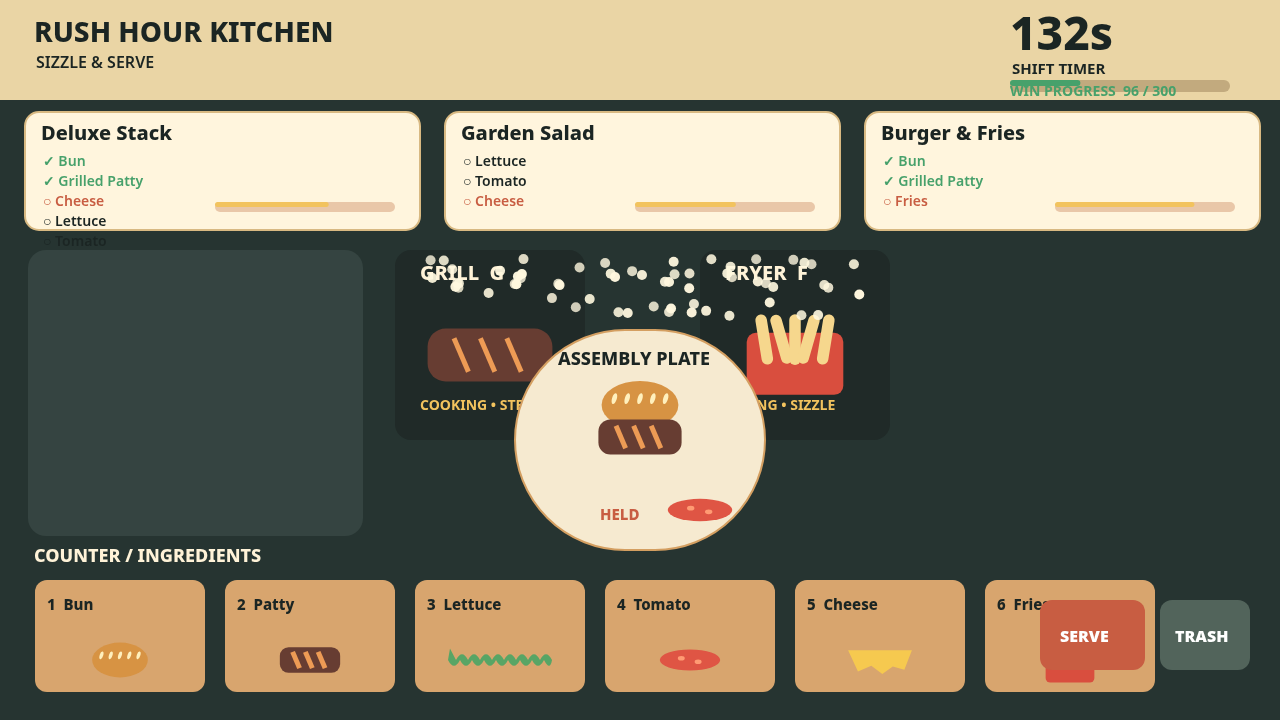
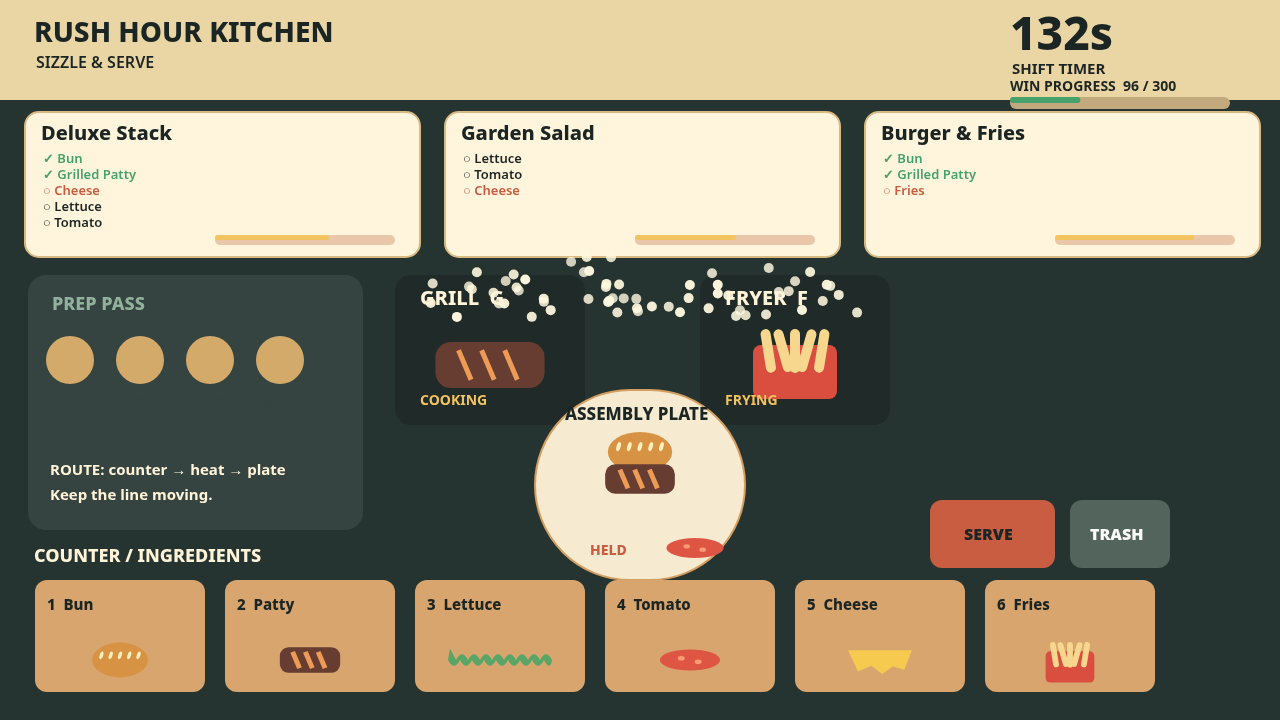
Fix cooking game screenshot layout

diff --git a/game/src/render.js b/game/src/render.js
@@ -1,9 +1,10 @@
-import {W,H,COLORS,INGREDIENTS,BIN_COLORS,RECIPES,WIN} from './config.js';
+import {W,H,COLORS,INGREDIENTS,WIN} from './config.js';
+const LAYOUT_REVISION=2;
 const rr=(c,x,y,w,h,r,fill,stroke)=>{c.beginPath();c.roundRect(x,y,w,h,r);c.fillStyle=fill;c.fill();if(stroke){c.strokeStyle=stroke;c.lineWidth=2;c.stroke()}};
-function food(c,type,x,y,s=1){c.save();c.translate(x,y);if(type==='Bun'){c.fillStyle='#d79343';c.beginPath();c.ellipse(0,0,48*s,30*s,0,0,Math.PI*2);c.fill();c.fillStyle='#fff0bd';for(let i=-2;i<3;i++){c.beginPath();c.ellipse(i*16*s,-8*s,3*s,7*s,.3,0,7);c.fill()}}else if(type==='Patty'||type==='Grilled Patty'){c.fillStyle='#673d32';rr(c,-52*s,-22*s,104*s,44*s,15*s,c.fillStyle);c.strokeStyle='#ed9b55';c.lineWidth=5;for(let i=-30;i<31;i+=22){c.beginPath();c.moveTo(i*s,-14*s);c.lineTo((i+12)*s,14*s);c.stroke()}}else if(type==='Lettuce'){c.fillStyle='#58a565';c.beginPath();for(let i=-50;i<=50;i+=12)c.quadraticCurveTo(i,-20*s,i+6,0);for(let i=50;i>=-50;i-=12)c.quadraticCurveTo(i,20*s,i-6,0);c.fill()}else if(type==='Tomato'){c.fillStyle='#df5544';c.beginPath();c.ellipse(0,0,52*s,18*s,0,0,7);c.fill();c.fillStyle='#ff9b73';c.beginPath();c.ellipse(-15*s,-3*s,6*s,4*s,0,0,7);c.ellipse(14*s,3*s,6*s,4*s,0,0,7);c.fill()}else if(type==='Cheese'){c.fillStyle='#f6c94f';c.beginPath();c.moveTo(-55*s,-17*s);c.lineTo(55*s,-17*s);c.lineTo(42*s,17*s);c.lineTo(22*s,11*s);c.lineTo(4*s,24*s);c.lineTo(-15*s,10*s);c.lineTo(-38*s,20*s);c.closePath();c.fill()}else{c.fillStyle='#d94e3e';rr(c,-42*s,-15*s,84*s,54*s,8*s,c.fillStyle);c.fillStyle='#f6d78d';for(let i=-28;i<34;i+=14){c.save();c.translate(i*s,-17*s);c.rotate((i%20)*.02);rr(c,-5*s,-14*s,10*s,44*s,5*s,c.fillStyle);c.restore()}}c.restore()}
-export function draw(c,w,shot){c.clearRect(0,0,W,H);c.fillStyle='#263431';c.fillRect(0,0,W,H);c.fillStyle='#ead5a5';c.fillRect(0,0,W,100);c.fillStyle=COLORS.ink;c.font='800 28px system-ui';c.fillText('RUSH HOUR KITCHEN',34,42);c.font='600 16px system-ui';c.fillText('SIZZLE & SERVE',36,68);c.fillStyle=COLORS.ink;c.font='800 46px system-ui';c.fillText(`${Math.ceil(w.time)}s`,1010,50);c.font='700 15px system-ui';c.fillText('SHIFT TIMER',1012,74);rr(c,1010,80,220,12,6,'#c2aa7e');rr(c,1010,80,220*Math.min(1,w.score/WIN),6,3,COLORS.green);c.font='700 14px system-ui';c.fillText(`WIN PROGRESS  ${w.score} / ${WIN}`,1010,96);
- for(let i=0;i<3;i++){const o=w.orders[i];const x=25+i*420;rr(c,x,112,395,118,14,'#fff5dd',o?.patience<8?COLORS.red:'#d8b982');c.fillStyle=COLORS.ink;c.font='800 20px system-ui';c.fillText(o?.name||'New order',x+16,140);c.font='600 14px system-ui';(o?.need||[]).forEach((n,j)=>{c.fillStyle=j<w.plate.length&&w.plate[j]===n?COLORS.green:j===w.plate.length?COLORS.terracotta:COLORS.ink;c.fillText(`${j<w.plate.length&&w.plate[j]===n?'✓':'○'} ${n}`,x+18,166+j*20)});rr(c,x+190,202,180,10,5,'#e9c7a8');rr(c,x+190,202,180*Math.max(0,(o?.patience||0)/28),5,3,o?.patience<8?COLORS.red:COLORS.gold);if(o?.patience<8){c.fillStyle=COLORS.red;c.font='900 13px system-ui';c.fillText('URGENT',x+300,140)}}
- rr(c,28,250,335,286,18,'#354441');rr(c,395,250,190,190,16,'#202a28');rr(c,700,250,190,190,16,'#202a28');c.fillStyle=COLORS.cream;c.font='800 20px system-ui';c.fillText('GRILL  G',420,280);c.fillText('FRYER  F',725,280);food(c,w.grill.item||'Patty',490,355,1.2);food(c,w.fryer.item||'Fries',795,350,1.15);c.fillStyle=COLORS.gold;c.font='700 14px system-ui';c.fillText(w.grill.busy?'COOKING • STEAM':'READY',420,410);c.fillText(w.fryer.busy?'FRYING • SIZZLE':'READY',725,410);for(const p of w.particles){c.globalAlpha=p.a;c.fillStyle='#fff8df';c.beginPath();c.arc(p.x,p.y,5,0,7);c.fill()}c.globalAlpha=1;
- rr(c,515,330,250,220,125,'#f6ead0','#d49f61');c.fillStyle=COLORS.ink;c.font='800 18px system-ui';c.fillText('ASSEMBLY PLATE',558,365);w.plate.forEach((n,i)=>food(c,n,640,405+i*32,0.8));if(w.hand){c.fillStyle=COLORS.terracotta;c.font='800 15px system-ui';c.fillText('HELD',600,520);food(c,w.hand,700,510,.62)}
- c.fillStyle=COLORS.cream;c.font='800 18px system-ui';c.fillText('COUNTER / INGREDIENTS',34,562);INGREDIENTS.forEach((n,i)=>{const x=35+i*190;rr(c,x,580,170,112,12,'#d8a56e');c.fillStyle=COLORS.ink;c.font='800 15px system-ui';c.fillText(`${i+1}  ${n}`,x+12,610);food(c,n,x+85,660,.58)});rr(c,1040,600,105,70,12,COLORS.terracotta);c.fillStyle='white';c.font='900 16px system-ui';c.fillText('SERVE',1060,642);rr(c,1160,600,90,70,12,'#52645b');c.fillStyle='white';c.fillText('TRASH',1175,642);if(w.combo>1){rr(c,920,260,170,58,14,COLORS.gold);c.fillStyle=COLORS.ink;c.font='900 27px system-ui';c.fillText(`COMBO x${w.combo}`,940,298)}w.pop.forEach(p=>{c.globalAlpha=p.a;c.fillStyle=COLORS.gold;c.font='900 28px system-ui';c.fillText(p.text,p.x,p.y)});c.globalAlpha=1;if(w.mode!=='play'){c.fillStyle='rgba(20,26,24,.76)';c.fillRect(220,185,840,350);rr(c,300,230,680,250,24,'#fff1ce');c.fillStyle=COLORS.ink;c.font='900 54px system-ui';c.fillText(w.mode==='win'?'SERVICE COMPLETE':'SHIFT OVER',420,310);c.font='700 24px system-ui';c.fillText(`Score ${w.score}   Served ${w.served}   Best combo x${w.bestCombo}`,390,365);c.font='600 18px system-ui';c.fillText('Press R to start a fresh shift',500,420)} }
-const REVISION=2;
+function food(c,type,x,y,s=1){c.save();c.translate(x,y);if(type==='Bun'){c.fillStyle='#d79343';c.beginPath();c.ellipse(0,0,48*s,30*s,0,0,7);c.fill();c.fillStyle='#fff0bd';for(let i=-2;i<3;i++){c.beginPath();c.ellipse(i*16*s,-8*s,3*s,7*s,.3,0,7);c.fill()}}else if(type==='Patty'||type==='Grilled Patty'){c.fillStyle='#673d32';rr(c,-52*s,-22*s,104*s,44*s,15*s,c.fillStyle);c.strokeStyle='#ed9b55';c.lineWidth=5;for(let i=-30;i<31;i+=22){c.beginPath();c.moveTo(i*s,-14*s);c.lineTo((i+12)*s,14*s);c.stroke()}}else if(type==='Lettuce'){c.fillStyle='#58a565';c.beginPath();for(let i=-50;i<=50;i+=12)c.quadraticCurveTo(i,-20*s,i+6,0);for(let i=50;i>=-50;i-=12)c.quadraticCurveTo(i,20*s,i-6,0);c.fill()}else if(type==='Tomato'){c.fillStyle='#df5544';c.beginPath();c.ellipse(0,0,52*s,18*s,0,0,7);c.fill();c.fillStyle='#ff9b73';c.beginPath();c.ellipse(-15*s,-3*s,6*s,4*s,0,0,7);c.ellipse(14*s,3*s,6*s,4*s,0,0,7);c.fill()}else if(type==='Cheese'){c.fillStyle='#f6c94f';c.beginPath();c.moveTo(-55*s,-17*s);c.lineTo(55*s,-17*s);c.lineTo(42*s,17*s);c.lineTo(22*s,11*s);c.lineTo(4*s,24*s);c.lineTo(-15*s,10*s);c.lineTo(-38*s,20*s);c.closePath();c.fill()}else{c.fillStyle='#d94e3e';rr(c,-42*s,-15*s,84*s,54*s,8*s,c.fillStyle);c.fillStyle='#f6d78d';for(let i=-28;i<34;i+=14){c.save();c.translate(i*s,-17*s);c.rotate((i%20)*.02);rr(c,-5*s,-14*s,10*s,44*s,5*s,c.fillStyle);c.restore()}}c.restore()}
+export function draw(c,w,shot){c.clearRect(0,0,W,H);c.fillStyle='#263431';c.fillRect(0,0,W,H);c.fillStyle='#ead5a5';c.fillRect(0,0,W,100);c.fillStyle=COLORS.ink;c.font='800 28px system-ui';c.fillText('RUSH HOUR KITCHEN',34,42);c.font='600 16px system-ui';c.fillText('SIZZLE & SERVE',36,68);c.font='800 46px system-ui';c.fillText(`${Math.ceil(w.time)}s`,1010,50);c.font='700 15px system-ui';c.fillText('SHIFT TIMER',1012,74);c.font='700 14px system-ui';c.fillText(`WIN PROGRESS  ${w.score} / ${WIN}`,1010,91);rr(c,1010,97,220,12,6,'#c2aa7e');rr(c,1010,97,220*Math.min(1,w.score/WIN),6,3,COLORS.green);
+ for(let i=0;i<3;i++){const o=w.orders[i],x=25+i*420;rr(c,x,112,395,145,14,'#fff5dd',o?.patience<8?COLORS.red:'#d8b982');c.fillStyle=COLORS.ink;c.font='800 20px system-ui';c.fillText(o?.name||'New order',x+16,140);c.font='600 13px system-ui';(o?.need||[]).forEach((n,j)=>{c.fillStyle=j<w.plate.length&&w.plate[j]===n?COLORS.green:j===w.plate.length?COLORS.terracotta:COLORS.ink;c.fillText(`${j<w.plate.length&&w.plate[j]===n?'✓':'○'} ${n}`,x+18,163+j*16)});rr(c,x+190,235,180,10,5,'#e9c7a8');rr(c,x+190,235,180*Math.max(0,(o?.patience||0)/28),5,3,o?.patience<8?COLORS.red:COLORS.gold);if(o?.patience<8){c.fillStyle=COLORS.red;c.font='900 13px system-ui';c.fillText('URGENT',x+300,140)}}
+ rr(c,28,275,335,255,18,'#354441');c.fillStyle='#91b19c';c.font='800 18px system-ui';c.fillText('PREP PASS',52,310);for(let i=0;i<4;i++){c.fillStyle='#d4aa6a';c.beginPath();c.arc(70+i*70,360,24,0,7);c.fill();c.fillStyle='#354441';c.font='700 13px system-ui';c.fillText(['wash','slice','stack','plate'][i],49+i*70,405)}c.fillStyle=COLORS.cream;c.font='700 15px system-ui';c.fillText('ROUTE: counter → heat → plate',50,475);c.fillText('Keep the line moving.',50,500);
+ rr(c,395,275,190,150,16,'#202a28');rr(c,700,275,190,150,16,'#202a28');for(const p of w.particles){c.globalAlpha=p.a;c.fillStyle='#fff8df';c.beginPath();c.arc(p.x,Math.min(345,p.y),5,0,7);c.fill()}c.globalAlpha=1;c.fillStyle=COLORS.cream;c.font='800 20px system-ui';c.fillText('GRILL  G',420,305);c.fillText('FRYER  F',725,305);food(c,w.grill.item||'Patty',490,365,1.05);food(c,w.fryer.item||'Fries',795,360,1.0);c.fillStyle=COLORS.gold;c.font='700 14px system-ui';c.fillText(w.grill.busy?'COOKING':'READY',420,405);c.fillText(w.fryer.busy?'FRYING':'READY',725,405);
+ rr(c,535,390,210,190,105,'#f6ead0','#d49f61');c.fillStyle=COLORS.ink;c.font='800 17px system-ui';c.fillText('ASSEMBLY PLATE',565,420);w.plate.forEach((n,i)=>food(c,n,640,452+i*27,.67));if(w.hand){c.fillStyle=COLORS.terracotta;c.font='800 14px system-ui';c.fillText('HELD',590,555);food(c,w.hand,695,548,.55)}
+ c.fillStyle=COLORS.cream;c.font='800 18px system-ui';c.fillText('COUNTER / INGREDIENTS',34,562);INGREDIENTS.forEach((n,i)=>{const x=35+i*190;rr(c,x,580,170,112,12,'#d8a56e');c.fillStyle=COLORS.ink;c.font='800 15px system-ui';c.fillText(`${i+1}  ${n}`,x+12,610);food(c,n,x+85,660,.58)});const serveGlow=shot==='serve';rr(c,930,500,125,68,12,serveGlow?'#f2c35e':COLORS.terracotta,serveGlow?COLORS.cream:null);c.fillStyle=COLORS.ink;c.font='900 16px system-ui';c.fillText('SERVE',964,540);rr(c,1070,500,100,68,12,'#52645b');c.fillStyle='white';c.fillText('TRASH',1090,540);if(w.combo>1){const cy=w.mode==='win'?540:270;rr(c,930,cy,170,58,14,COLORS.gold);c.fillStyle=COLORS.ink;c.font='900 27px system-ui';c.fillText(`COMBO x${w.combo}`,950,cy+38)}w.pop.forEach(p=>{c.globalAlpha=p.a;c.fillStyle=COLORS.gold;c.font='900 28px system-ui';c.fillText(p.text,p.x,p.y)});c.globalAlpha=1;if(shot==='serve'){food(c,'Deluxe Stack',1110,350,.72);c.strokeStyle=COLORS.gold;c.lineWidth=4;c.beginPath();c.moveTo(760,450);c.quadraticCurveTo(930,330,1080,350);c.stroke();c.fillStyle=COLORS.cream;c.font='800 14px system-ui';c.fillText('DISH TO CUSTOMER',1000,315)}if(w.mode!=='play'){c.fillStyle='rgba(20,26,24,.76)';c.fillRect(220,185,840,350);rr(c,300,230,680,250,24,'#fff1ce');c.fillStyle=COLORS.ink;c.font='900 54px system-ui';c.fillText(w.mode==='win'?'SERVICE COMPLETE':'SHIFT OVER',420,310);c.font='700 24px system-ui';c.fillText(`Score ${w.score}   Served ${w.served}   Best combo x${w.bestCombo}`,390,365);c.font='600 18px system-ui';c.fillText('Press R to start a fresh shift',500,420)}}

diff --git a/game/src/shots.js b/game/src/shots.js
@@ -1,2 +1,2 @@
 export function stageShot(w,name){w.mode='play';w.time=name==='end'?96:name==='cover'?118:132;w.score=name==='cover'?240:name==='serve'?188:name==='end'?356:96;w.combo=name==='cover'?3:name==='end'?4:1;w.bestCombo=w.combo;w.served=name==='end'?6:name==='serve'?2:1;w.orders[0]={...w.orders[0],name:'Deluxe Stack',need:['Bun','Grilled Patty','Cheese','Lettuce','Tomato'],patience:name==='cover'?5:18};w.orders[1]={...w.orders[1],name:'Garden Salad',need:['Lettuce','Tomato','Cheese'],patience:16};w.orders[2]={...w.orders[2],name:'Burger & Fries',need:['Bun','Grilled Patty','Fries'],patience:22};w.plate=name==='cover'?['Bun','Grilled Patty','Cheese','Lettuce']:name==='mid'?['Bun','Grilled Patty']:name==='serve'?['Bun','Grilled Patty','Cheese','Tomato']:[];w.hand=name==='serve'?'Lettuce':'Tomato';w.grill={item:'Grilled Patty',p:.55,busy:true};w.fryer={item:'Fries',p:.45,busy:true};if(name==='end')w.mode='win'}
-const REVISION=2;
+const REVISION=3;
